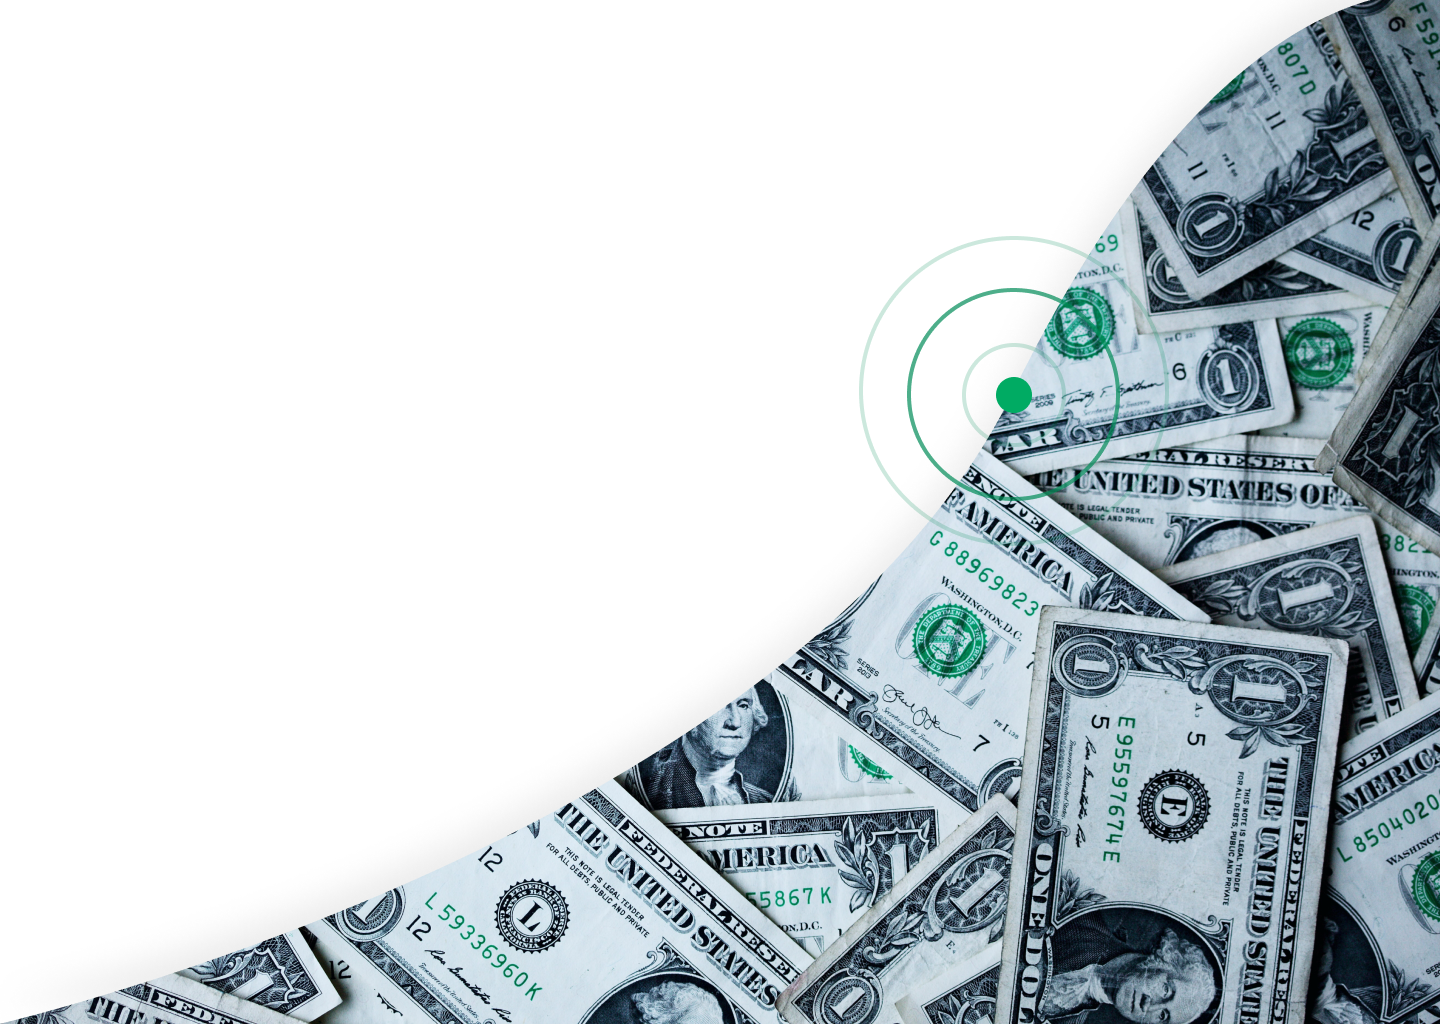
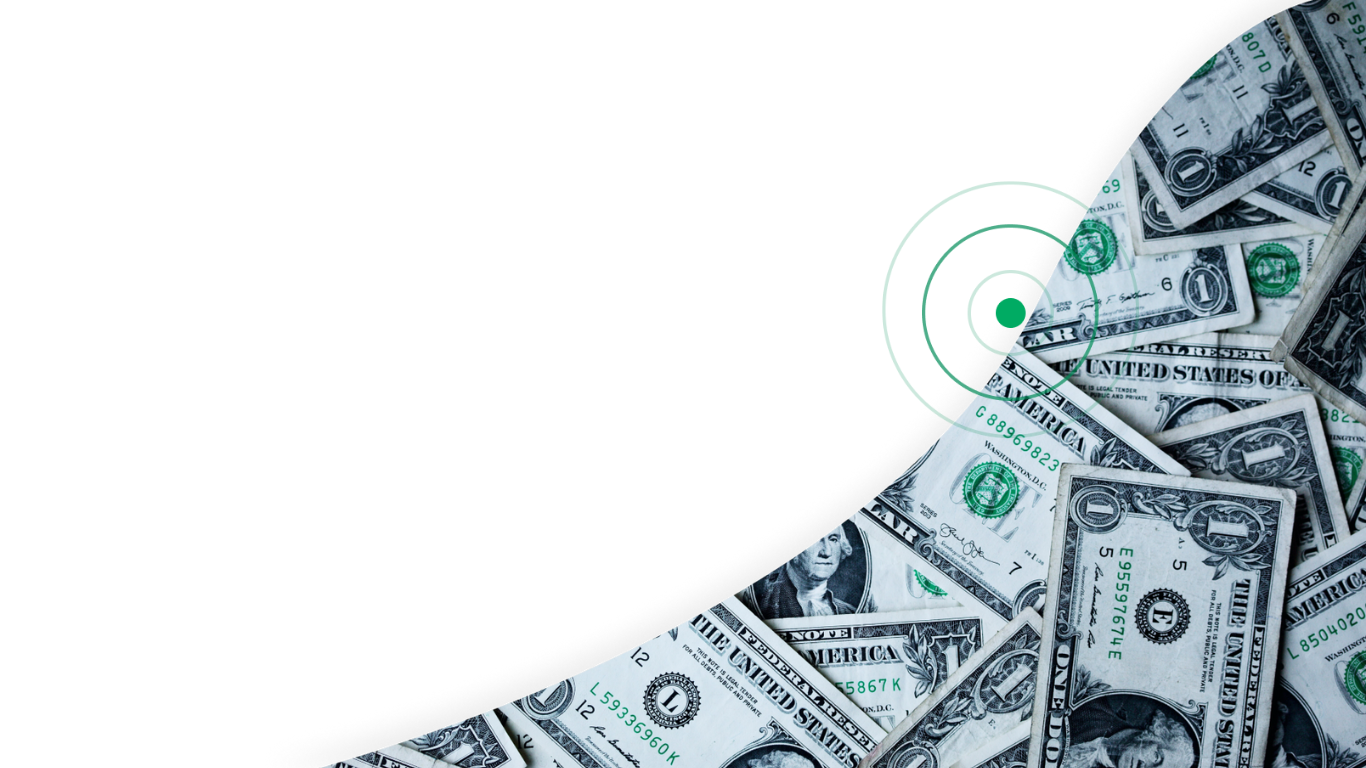
feat: add navbar

diff --git a/src/components/navbar/navbar-logo.tsx b/src/components/navbar/navbar-logo.tsx
@@ -1,0 +1,16 @@
+export default function LogoNavBar() {
+    return (
+        <svg width="163" height="81" viewBox="0 0 163 81" fill="none" xmlns="http://www.w3.org/2000/svg">
+            <path d="M91.965 51.6829H99.2384C99.3091 51.6879 99.3802 51.6785 99.4471 51.6553C99.5141 51.6321 99.5757 51.5955 99.628 51.5477C99.6804 51.5 99.7225 51.4422 99.7517 51.3777C99.7809 51.3132 99.7967 51.2435 99.7981 51.1728V31.1241C99.7981 25.439 102.597 22.4433 107.428 22.4433C112.26 22.4433 115.007 25.439 115.007 31.1241V51.1753C115.008 51.2461 115.024 51.3158 115.053 51.3803C115.083 51.4447 115.125 51.5026 115.177 51.5503C115.229 51.598 115.291 51.6346 115.358 51.6578C115.425 51.6811 115.496 51.6904 115.567 51.6854H122.84C122.911 51.6904 122.982 51.6811 123.049 51.6578C123.116 51.6346 123.177 51.598 123.23 51.5503C123.282 51.5026 123.324 51.4447 123.353 51.3803C123.383 51.3158 123.398 51.2461 123.4 51.1753V31.1752C123.4 22.5951 118.619 15.0825 107.427 15.0825C96.2342 15.0825 91.4053 22.5951 91.4053 31.1752V51.1753C91.407 51.2458 91.423 51.3153 91.4524 51.3795C91.4818 51.4436 91.524 51.5012 91.5763 51.5486C91.6286 51.5961 91.69 51.6324 91.7568 51.6555C91.8236 51.6786 91.8944 51.6879 91.965 51.6829Z" fill="#00A868" />
+            <path d="M41.913 52.1406C44.5581 52.1406 46.2871 51.8358 47.0499 51.531C47.1637 51.4857 47.2623 51.4092 47.3344 51.3104C47.4065 51.2116 47.4492 51.0944 47.4576 50.9725V44.9787C47.4576 44.6229 47.3042 44.4201 46.8468 44.4201C46.4902 44.4201 45.4731 44.6229 44.6591 44.6229C41.5054 44.6229 40.133 43.456 40.133 40.7141V23.8142H46.8468C46.9948 23.8129 47.1364 23.7536 47.241 23.6491C47.3457 23.5447 47.4051 23.4034 47.4064 23.2556V16.7071C47.4051 16.5594 47.3457 16.4181 47.241 16.3136C47.1364 16.2091 46.9948 16.1498 46.8468 16.1485H39.8787V10.4633C39.8787 9.85375 39.6231 9.59998 39.1657 9.59998H32.2985C31.7401 9.59998 31.4858 9.85503 31.4858 10.4633V41.5801C31.4858 49.145 35.7065 52.1406 41.913 52.1406Z" fill="#00A868" />
+            <path d="M12.7183 52.5461C20.908 52.5461 26.758 47.5203 26.758 40.9717C26.758 33.6108 21.8741 31.4798 15.2114 30.0579L11.9044 29.3476C9.41257 28.789 8.03889 27.6209 8.03889 25.6416C8.03889 23.1038 10.5818 21.7329 14.092 21.7329C19.0258 21.7329 22.3826 23.9659 22.8912 23.9659C23.0326 23.9565 23.1687 23.9092 23.2853 23.8288C23.4018 23.7484 23.4944 23.638 23.5531 23.5094L24.8757 18.5855C25.1313 17.9249 25.0789 17.7732 24.6201 17.5194C21.6696 15.9967 18.5159 15.1334 14.0396 15.1334C5.749 15.1334 0 19.9054 0 26.2512C0 32.245 4.62961 35.5403 11.245 36.9635L14.6019 37.6739C17.2981 38.2324 18.8187 39.2986 18.8187 41.5826C18.8187 43.9176 16.9876 45.9478 12.6634 45.9478C6.55915 45.9478 2.38828 43.5121 1.72764 43.5121C1.32001 43.5121 1.16795 43.7148 1.01588 44.3742L0.150784 48.4869C-0.104784 49.349 0.150785 49.9076 0.710479 50.1614C2.79719 51.3282 8.4938 52.5461 12.7183 52.5461Z" fill="#00A868" />
+            <path d="M68.2114 45.4901C62.87 45.4901 57.9886 41.4794 57.9886 33.9157C57.9886 26.3521 62.8713 22.4383 68.2114 22.4383C73.6026 22.4383 78.3842 26.347 78.3842 33.9157C78.3842 41.5304 73.6026 45.4901 68.2114 45.4901ZM68.2114 52.8C78.8928 52.8 86.6749 44.8308 86.6749 33.9157C86.6749 23.0006 78.8928 15.0825 68.2114 15.0825C57.5797 15.0825 49.7466 23.0019 49.7466 33.9157C49.7466 44.8295 57.5797 52.8 68.2114 52.8Z" fill="#00A868" />
+            <path d="M163 33.5102C163 22.2878 156.539 15.0825 146.26 15.0825C136.596 15.0825 128.254 22.4944 128.254 33.764C128.254 45.7949 136.799 52.8 145.955 52.8C153.636 52.8 158.067 49.7789 160.808 46.0997C161.339 45.3868 161.447 45.0795 161.447 44.8805C161.447 44.6816 161.32 44.526 160.858 44.1154L157.653 41.3238C156.887 40.6645 156.631 40.4604 156.376 40.4604C156.12 40.4604 155.968 40.6135 155.765 40.8673C153.577 43.8119 150.526 45.4863 146.406 45.4863C141.209 45.4863 137.746 41.9627 136.867 36.2469H160.339C161.976 36.2508 163 35.7368 163 33.5102ZM145.959 22.1386C151.51 22.1386 154.447 25.8764 154.607 30.007H136.991C137.956 25.5716 140.972 22.1386 145.959 22.1386Z" fill="#00A868" />
+            <path d="M101.065 72.834C100.937 74.1992 100.433 75.2656 99.5537 76.0332C98.6748 76.7949 97.5059 77.1758 96.0469 77.1758C95.0273 77.1758 94.1279 76.9355 93.3486 76.4551C92.5752 75.9688 91.9775 75.2803 91.5557 74.3896C91.1338 73.499 90.9141 72.4648 90.8965 71.2871V70.0918C90.8965 68.8848 91.1104 67.8213 91.5381 66.9014C91.9658 65.9814 92.5781 65.2725 93.375 64.7744C94.1777 64.2764 95.1035 64.0273 96.1523 64.0273C97.5645 64.0273 98.7012 64.4111 99.5625 65.1787C100.424 65.9463 100.925 67.0303 101.065 68.4307H98.8506C98.7451 67.5107 98.4756 66.8486 98.042 66.4443C97.6143 66.0342 96.9844 65.8291 96.1523 65.8291C95.1855 65.8291 94.4414 66.1836 93.9199 66.8926C93.4043 67.5957 93.1406 68.6299 93.1289 69.9951V71.1289C93.1289 72.5117 93.375 73.5664 93.8672 74.293C94.3652 75.0195 95.0918 75.3828 96.0469 75.3828C96.9199 75.3828 97.5762 75.1865 98.0156 74.7939C98.4551 74.4014 98.7334 73.748 98.8506 72.834H101.065ZM108.615 76.0684C107.988 76.8066 107.098 77.1758 105.943 77.1758C104.912 77.1758 104.13 76.874 103.597 76.2705C103.069 75.667 102.806 74.7939 102.806 73.6514V67.4902H104.941V73.625C104.941 74.832 105.442 75.4355 106.444 75.4355C107.481 75.4355 108.182 75.0635 108.545 74.3193V67.4902H110.681V77H108.668L108.615 76.0684ZM117.835 69.4414C117.554 69.3945 117.264 69.3711 116.965 69.3711C115.986 69.3711 115.327 69.7461 114.987 70.4961V77H112.852V67.4902H114.891L114.943 68.5537C115.459 67.7275 116.174 67.3145 117.088 67.3145C117.393 67.3145 117.645 67.3555 117.844 67.4375L117.835 69.4414ZM124.163 69.4414C123.882 69.3945 123.592 69.3711 123.293 69.3711C122.314 69.3711 121.655 69.7461 121.315 70.4961V77H119.18V67.4902H121.219L121.271 68.5537C121.787 67.7275 122.502 67.3145 123.416 67.3145C123.721 67.3145 123.973 67.3555 124.172 67.4375L124.163 69.4414ZM129.524 77.1758C128.171 77.1758 127.072 76.751 126.229 75.9014C125.391 75.0459 124.972 73.9092 124.972 72.4912V72.2275C124.972 71.2783 125.153 70.4316 125.517 69.6875C125.886 68.9375 126.401 68.3545 127.063 67.9385C127.726 67.5225 128.464 67.3145 129.278 67.3145C130.573 67.3145 131.572 67.7275 132.275 68.5537C132.984 69.3799 133.339 70.5488 133.339 72.0605V72.9219H127.125C127.189 73.707 127.45 74.3281 127.907 74.7852C128.37 75.2422 128.95 75.4707 129.647 75.4707C130.626 75.4707 131.423 75.0752 132.038 74.2842L133.189 75.3828C132.809 75.9512 132.299 76.3936 131.66 76.71C131.027 77.0205 130.315 77.1758 129.524 77.1758ZM129.27 69.0283C128.684 69.0283 128.209 69.2334 127.846 69.6436C127.488 70.0537 127.26 70.625 127.16 71.3574H131.229V71.1992C131.183 70.4844 130.992 69.9453 130.658 69.582C130.324 69.2129 129.861 69.0283 129.27 69.0283ZM136.986 67.4902L137.048 68.5889C137.751 67.7393 138.674 67.3145 139.816 67.3145C141.797 67.3145 142.805 68.4482 142.84 70.7158V77H140.704V70.8389C140.704 70.2354 140.572 69.79 140.309 69.5029C140.051 69.21 139.626 69.0635 139.034 69.0635C138.173 69.0635 137.531 69.4531 137.109 70.2324V77H134.974V67.4902H136.986ZM148.931 75.4707C149.464 75.4707 149.906 75.3154 150.258 75.0049C150.609 74.6943 150.797 74.3105 150.82 73.8535H152.833C152.81 74.4453 152.625 74.999 152.279 75.5146C151.934 76.0244 151.465 76.4287 150.873 76.7275C150.281 77.0264 149.643 77.1758 148.957 77.1758C147.627 77.1758 146.572 76.7451 145.793 75.8838C145.014 75.0225 144.624 73.833 144.624 72.3154V72.0957C144.624 70.6484 145.011 69.4912 145.784 68.624C146.558 67.751 147.612 67.3145 148.948 67.3145C150.079 67.3145 150.999 67.6455 151.708 68.3076C152.423 68.9639 152.798 69.8281 152.833 70.9004H150.82C150.797 70.3555 150.609 69.9072 150.258 69.5557C149.912 69.2041 149.47 69.0283 148.931 69.0283C148.239 69.0283 147.706 69.2803 147.331 69.7842C146.956 70.2822 146.766 71.041 146.76 72.0605V72.4033C146.76 73.4346 146.944 74.2051 147.313 74.7148C147.688 75.2188 148.228 75.4707 148.931 75.4707ZM157.772 73.9414L159.706 67.4902H161.982L158.203 78.4414C157.623 80.041 156.639 80.8408 155.25 80.8408C154.939 80.8408 154.597 80.7881 154.222 80.6826V79.0303L154.626 79.0566C155.165 79.0566 155.569 78.957 155.839 78.7578C156.114 78.5645 156.331 78.2363 156.489 77.7734L156.797 76.9561L153.457 67.4902H155.76L157.772 73.9414Z" fill="#00AB63" />
+            <rect opacity="0.32" y="65" width="83" height="4" fill="#00AB63" />
+        </svg>
+
+    );
+};
+
+

diff --git a/src/components/navbar/navbar.tsx b/src/components/navbar/navbar.tsx
@@ -1,0 +1,59 @@
+'use client';
+import { useEffect, useState } from "react";
+import LogoNavBar from "./navbar-logo";
+import styled from "styled-components";
+import { Colors } from "@/enums/colors";
+
+const SpanDate = styled.span`
+    font-size: 18px;
+    font-weight: 500;
+    line-height: 24px;
+    color: ${Colors.TEXT};
+`;
+
+const SpanMessage = styled.span`
+    font-size: 14px;
+    font-weight: 500;
+    line-height: 16px;
+    color: ${Colors.TEXT_MESSAGE};
+`;
+
+const Nav = styled.nav`
+    display: flex;
+    gap: 48px;
+    align-items: center;
+    margin: 3.5rem 0;
+`;
+
+const NavContainer  = styled.div`
+    display: flex;
+    flex-direction: column;
+    gap: 16px;
+`;
+
+export default function NavBar() {
+    const [date, setDate] = useState<string>("");
+    const [time, setTime] = useState<string>("");
+
+    useEffect(() => {
+        const currentDate = new Date();
+
+        const dateOptions: Intl.DateTimeFormatOptions = { year: 'numeric', month: 'long', day: '2-digit' };
+        const formattedDate = currentDate.toLocaleDateString('pt-BR', dateOptions);
+        setDate(formattedDate);
+
+        const timeOptions: Intl.DateTimeFormatOptions = { hour: '2-digit', minute: '2-digit', timeZoneName: 'short' };
+        const formattedTime = currentDate.toLocaleTimeString('pt-BR', timeOptions);
+        setTime(formattedTime);
+    }, []);
+
+    return (
+        <Nav>
+            <LogoNavBar />
+            <NavContainer>
+                <SpanDate>{date} | {time}</SpanDate>
+                <SpanMessage>Dados de câmbio disponibilizados pela Morningstar.</SpanMessage>
+            </NavContainer>
+        </Nav>
+    );
+}

diff --git a/src/app/layout.tsx b/src/app/layout.tsx
@@ -1,8 +1,13 @@
 import type { Metadata } from "next";
-import { Inter } from "next/font/google";
+import { Roboto} from "next/font/google";
 import "./globals.css";
+import Body from "@/components/body/body";
+import NavBar from "@/components/navbar/navbar";
 
-const inter = Inter({ subsets: ["latin"] });
+const roboto = Roboto({
+  subsets: ["latin"],
+  weight: ["100", "300", "400", "500", "700", "900"]
+});
 
 export const metadata: Metadata = {
   title: "Stone | Currency",
@@ -15,8 +20,11 @@ export default function RootLayout({
   children: React.ReactNode;
 }>) {
   return (
-    <html lang="pt-Br" className={inter.className}>
-      {children}
+    <html lang="pt-Br" className={roboto.className}>
+      <Body>
+        <NavBar />
+        {children}
+      </Body>
     </html>
   );
 }

diff --git a/src/components/body/body.tsx b/src/components/body/body.tsx
@@ -1,0 +1,21 @@
+'use client';
+import styled from "styled-components";
+import image from "../../../public/Mask.png";
+
+
+const BodyBackground = styled.body`
+    background-image: url(${image.src});
+    background-size: cover;
+    background-position: center;
+    background-repeat: no-repeat;
+    height: 100vh;
+    overflow: hidden;
+    margin-left: 5rem;
+`;
+export default function Body(props: { children: React.ReactNode }) {
+    return (
+        <BodyBackground>
+            {props.children}
+        </BodyBackground>
+    );
+};

diff --git a/src/app/page.tsx b/src/app/page.tsx
@@ -1,16 +1,9 @@
-'use client'
-import styled from "styled-components";
-import image from "../../public/Mask.png"
+'use client';
 
-const Body = styled.body`
-background-image: url(${image.src});
-background-size: cover;
-background-repeat: no-repeat;
-`;
 
 export default function Home() {
   return (
-    <Body >
-    </Body>
+    <main >
+    </main>
   );
 }

diff --git a/src/enums/colors.ts b/src/enums/colors.ts
@@ -1,0 +1,4 @@
+export enum Colors {
+    TEXT = '#45505E',
+    TEXT_MESSAGE ='#8C9CAD'
+}
